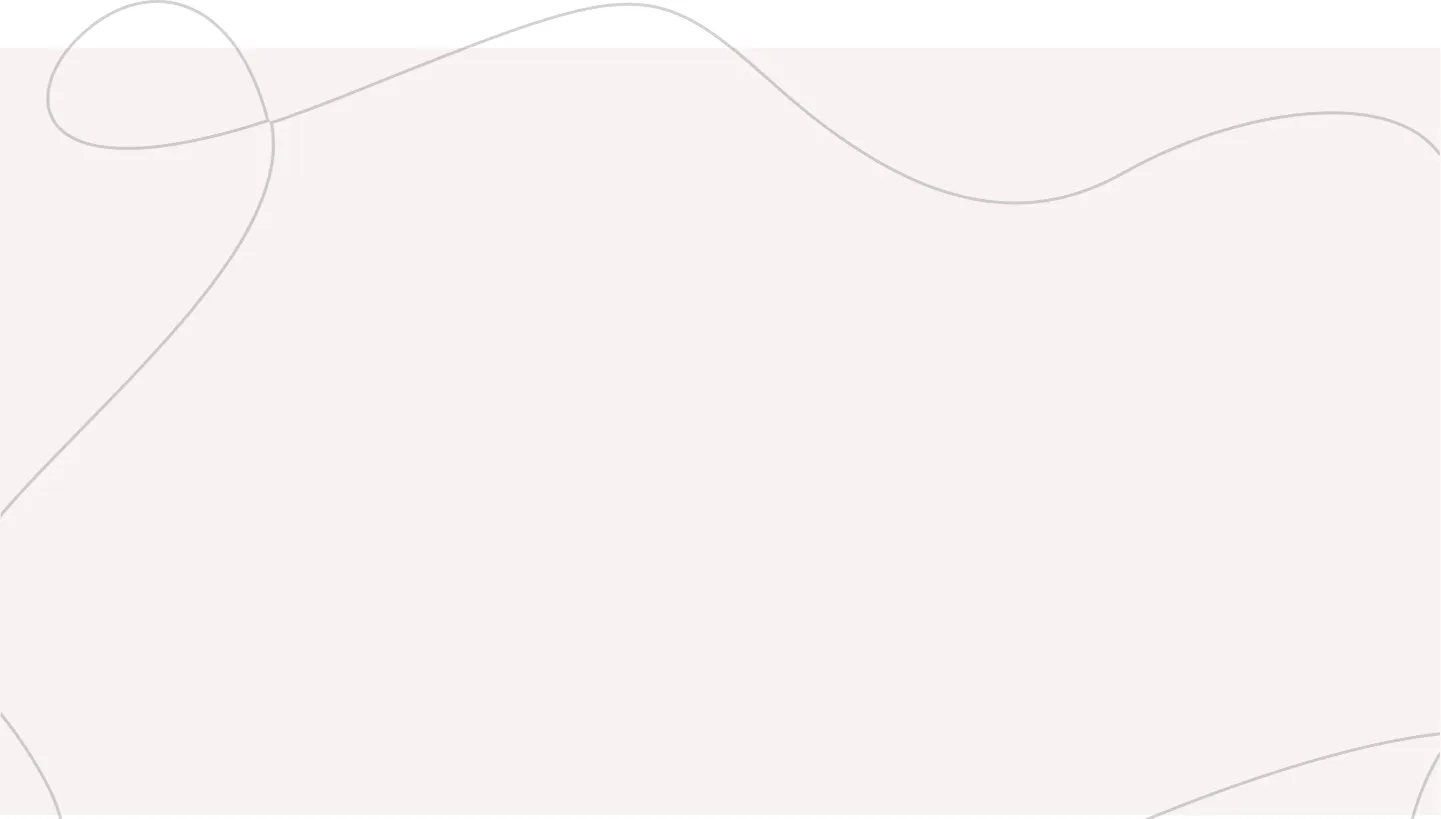
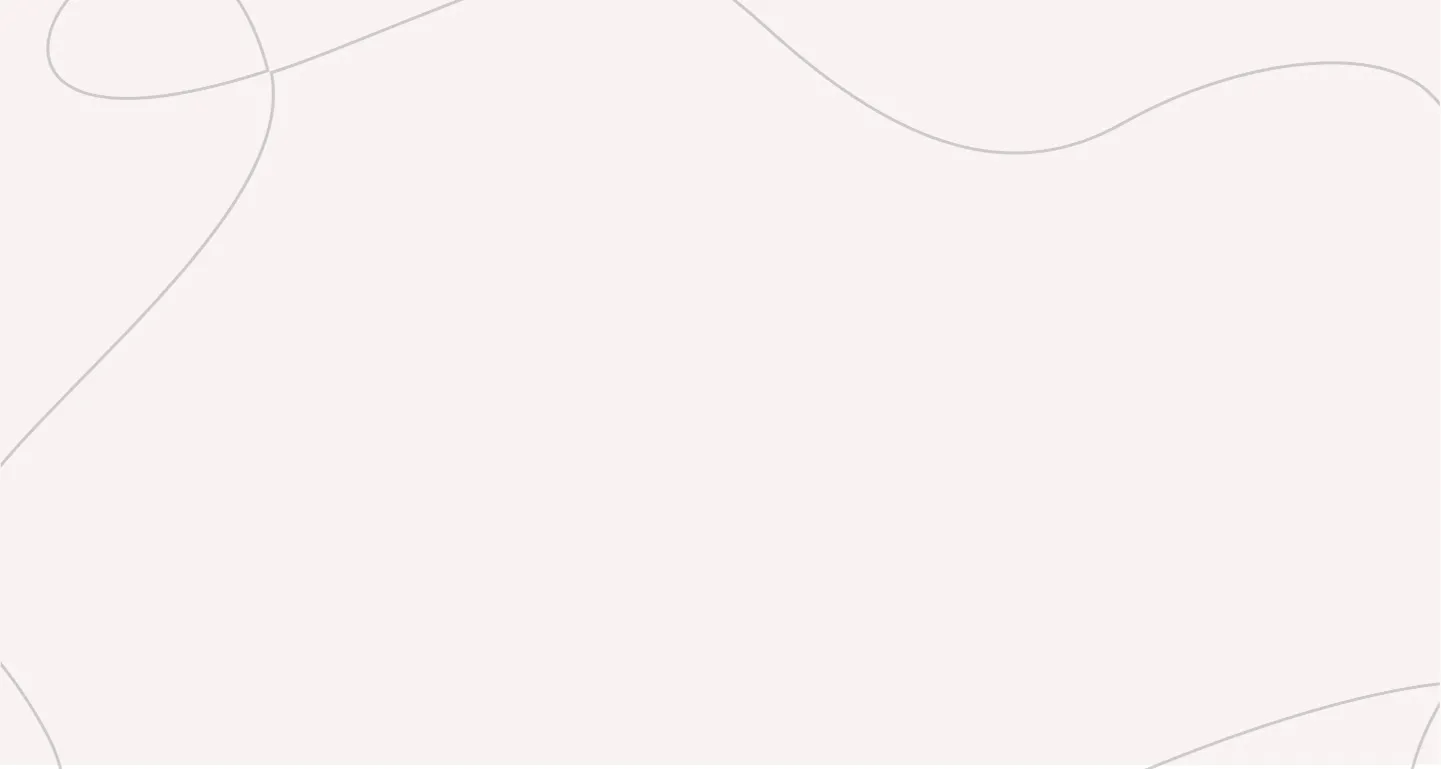
Add files via upload

diff --git a/css/index.min.css b/css/index.min.css
@@ -1,1 +1,1 @@
-@import url(https://fonts.googleapis.com/css?family=Poiret+One:regular&display=swap);@import url(https://fonts.googleapis.com/css?family=Playfair+Display:700&display=swap);@import url(https://fonts.googleapis.com/css?family=Gabriela:regular&display=swap);@import url(https://fonts.googleapis.com/css?family=Inter:regular&display=swap);*{border:0;margin:0;padding:0}*,:after,:before{box-sizing:border-box}:after,:before{display:inline-block}body,html{height:100%}body{line-height:1;scrollbar-gutter:stable;-ms-text-size-adjust:100%;-moz-text-size-adjust:100%;-webkit-text-size-adjust:100%;-webkit-font-smoothing:antialiased;-moz-osx-font-smoothing:grayscale}button,input,textarea{background-color:transparent;color:inherit;font-family:inherit;font-size:inherit;line-height:inherit}input,textarea{width:100%}label{display:inline-block}button,option,select{cursor:pointer}a{color:inherit;display:inline-block;text-decoration:none}ul li{list-style:none}img{height:auto;max-width:100%;vertical-align:middle}h1,h2,h3,h4,h5,h6{font-size:inherit;font-weight:inherit}@font-face{font-display:swap;font-family:gabriola;font-style:normal;font-weight:400;src:url(../assets/fonts/gabriola-Font-Download.woff2) format("woff2")}body{color:#181818;font-family:Poiret One;font-size:1.25rem;min-width:20rem}[data-fls-scrolllock] body{overflow:hidden;overscroll-behavior:none;touch-action:none}.wrapper{display:flex;flex-direction:column;min-height:100%;overflow:clip}.wrapper>main{flex:1 1 auto}.wrapper>*{min-width:0}[class*=__container]{margin:0 auto;max-width:91.875rem;padding-left:.9375rem;padding-right:.9375rem}.subtitle,.title{font-family:Playfair Display;font-size:2.5345625rem;line-height:120%;text-align:center;text-transform:uppercase}.subtitle{color:#010101;margin-bottom:3.75rem;opacity:.2196}.yellow-link{background-color:#000;border-radius:1.5625rem;color:#f4c797;display:inline-block;font-family:Poiret One;font-size:1.5625rem;letter-spacing:.0265rem;line-height:100%;padding:.625rem 1.25rem}.spollers{display:grid;gap:.9375rem}.spollers__item{font-size:1.25rem}.spollers__title{cursor:default;list-style:none;position:relative;width:100%}.spollers__title::-webkit-details-marker,.spollers__title::marker{display:none}.--spoller-init .spollers__title{cursor:pointer}.--spoller-active .faq-arrow{rotate:180deg}.spollers__body{margin-bottom:4.375rem;padding-left:1.875rem;padding-right:1.875rem;text-align:center}.main{padding-bottom:14.375rem;padding-top:12.5rem;position:relative}.main-bg{background-image:url(../img/bg.webp);background-position:50%;background-repeat:no-repeat;background-size:cover;bottom:0;height:100%;left:0;position:absolute;right:0;top:0;width:100%;z-index:-1}.main-link{margin-top:7.5rem}.main-block{align-items:center;display:flex;justify-content:space-between}.main-subtitle{color:#000;margin-bottom:7.875rem;max-width:23.25rem;text-transform:uppercase}.main-subtitle,.main-title{font-size:2.6041875rem;line-height:120%}.main-title{color:#3a3a3a;font-family:Playfair Display;max-width:42.8125rem}.main-title span{font-size:3.6458125rem;text-transform:uppercase}.main-right{align-items:end;display:flex;gap:1.875rem;transform:translate(-12.5rem,-12.5rem)}.main-pic{background-image:url(../img/woman.webp);background-position:50%;background-repeat:no-repeat;background-size:cover;height:22.5rem;position:relative;width:22.5rem;z-index:-1}.main-text{font-size:1.8229375rem;line-height:120%;max-width:16.5625rem;position:relative;text-align:right}.main-text:before{background-image:url(../img/circle.svg);background-position:50%;background-repeat:no-repeat;background-size:cover;content:"";height:8.125rem;left:-1.25rem;position:absolute;top:-1.25rem;width:8.125rem;z-index:-1}.main-text.mobile{display:none}.who{background-image:url(../img/bg2.webp);background-position:50%;background-repeat:no-repeat;background-size:cover;bottom:0;height:100%;left:0;padding-bottom:4.25rem;padding-top:4.25rem;right:0;top:0;width:100%}.who-link{margin-bottom:1.875rem;margin-top:4rem}.who-box{display:flex;flex-wrap:wrap;gap:2.5rem;justify-content:center}.who-item{flex:0 1 30%;padding:1.5rem;text-align:center;fill:#f1f1f1;border-radius:1.875rem;box-shadow:inset 0 .375rem 1.5rem 0 hsla(0,0%,53%,.45);font-family:Gabriola;font-size:1.3020625rem;line-height:100%}.who-item span{display:inline-block;max-width:15.375rem}.take{background-image:url(../img/bg3.webp);background-position:50%;background-repeat:no-repeat;background-size:cover;height:100%;width:100%}.take-box{display:flex;justify-content:space-between}.take-item{flex:0 1 48%}.take-item img{height:100%}.take-title.title{padding-top:3.75rem;text-align:left}.take-subtitle.subtitle{text-align:left}.take-texts{padding-bottom:1.875rem}.take-text{color:#010101;font-family:Poiret One;font-size:1.4323125rem;line-height:120%}.program,.program-block{position:relative}.program-block-bg{background-image:url(../img/bg4.webp);background-position:50%;background-repeat:no-repeat;background-size:cover;bottom:0;height:100%;left:0;position:absolute;right:0;top:0;width:100%;z-index:-1}.program-stars-box{position:relative}.program-title{padding-top:4.625rem}.program-stars{position:absolute;right:30%;top:5rem;z-index:-1}.program-box{align-items:center;display:flex;gap:1.125rem;justify-content:center;margin-bottom:.625rem}.program-numb{color:#000;flex:0 1 0%;font-family:Playfair Display;font-size:4.6875rem;line-height:120%;opacity:.2196;padding-bottom:1.5625rem;text-align:right;text-transform:uppercase}.program-text{border-bottom:.125rem solid #000;border-top:.125rem solid #000;color:#000;flex:0 1 50%;font-family:Poiret One;font-size:1.5625rem;letter-spacing:.0274375rem;line-height:100%;padding-bottom:1.25rem;padding-top:1.25rem}.timing-title{padding-top:3.125rem}.timing-subtitle{margin-bottom:7.5rem}.timing-box{display:flex;gap:3.125rem;justify-content:center}.timing-item{flex:0 1 26%;position:relative}.timing-item-before{background-image:url(../img/circle.svg);background-position:50%;background-repeat:no-repeat;background-size:cover;height:8.125rem;left:-1.875rem;position:absolute;top:-3.125rem;width:8.125rem;z-index:-1}.timing-item-title{font-family:Playfair Display}.timing-item-title,.timing-text{color:#3a3a3a;font-size:1.5625rem;line-height:120%;text-transform:uppercase}.timing-text{font-family:Poiret One;margin-bottom:1.875rem}.end-text{color:#3a3a3a;font-family:Gabriola;font-size:1.8229375rem;line-height:120%;margin:0 auto;max-width:68.75rem;padding-bottom:5rem;padding-top:5rem;text-align:center}.author{position:relative}.author-bg{background-image:url(../img/bg5.webp);background-position:50%;background-repeat:no-repeat;background-size:cover;bottom:0;height:100%;left:0;position:absolute;right:0;top:0;width:100%;z-index:-1}.author-block{display:flex;gap:3.125rem;justify-content:center}.author-img{flex:0 1 33.333%;padding-top:9.375rem;text-align:center}.author-cont{flex:0 1 30%;padding-top:4rem}.author-text{font-family:Playfair Display;margin-bottom:1.875rem}.author-list-item,.author-text{color:#010101;font-size:1.4323125rem;line-height:120%}.price-link{margin-top:4.0625rem;text-align:center}.price-block{padding-top:4.375rem;position:relative}.price-block-bg{background-image:url(../img/bg6.webp);background-position:50%;background-repeat:no-repeat;background-size:cover;bottom:0;height:100%;left:0;position:absolute;right:0;top:0;width:100%;z-index:-1}.price-subtitle{margin-bottom:5.625rem}.price-box{display:flex;gap:4.375rem;justify-content:center;padding-left:1.875rem;padding-right:1.875rem}.price-item{flex:0 1 30%}.price-item-title{font-family:Playfair Display}.price-item-sub,.price-item-title{color:#000;font-size:1.3020625rem;letter-spacing:.0406875rem;line-height:120%}.price-item-sub{margin-bottom:1.125rem}.price-list{margin-bottom:1.4375rem}.price-list-item{color:#575757;font-family:Gabriola;font-size:1.3020625rem;line-height:120%}.price-cost{border-bottom:.1875rem solid #000;border-top:.1875rem solid #000;display:flex;gap:1.375rem;justify-content:space-between;margin-bottom:1.5625rem;padding-bottom:.9375rem;padding-top:.9375rem}.price-cost-title{color:#000;font-family:Playfair Display;font-size:1.4323125rem;line-height:100%;text-transform:uppercase}.price-cost-text{color:#000;font-size:1.5625rem;letter-spacing:.0549375rem;line-height:100%}.price-bold{color:#010101;font-family:Gabriola;font-size:1.3020625rem;line-height:120%;text-align:justify}.faq{margin-top:9.375rem}.faq-subtitle{margin-bottom:3.75rem}.faq-list{align-items:center;display:flex;gap:1.125rem;justify-content:center;padding-bottom:1.625rem;padding-left:1.875rem;padding-right:1.875rem}.faq-list:last-child{padding-bottom:4.375rem}.faq-arrow{flex:0 1 1%;text-align:right;transition:transform .5s ease}.faq-link{border-bottom:.1875rem solid #000;border-top:.1875rem solid #000;color:#000;flex:0 1 34.25rem;font-family:Poiret One;font-size:1.5625rem;letter-spacing:.0473125rem;line-height:120%;padding-bottom:.9375rem;padding-top:.9375rem}.footer{position:relative}.footer-bg{background-image:url(../img/bg-footer.webp);background-position:50%;background-repeat:no-repeat;background-size:cover;bottom:0;height:100%;left:0;position:absolute;right:0;top:0;width:100%;z-index:-1}.footer-box{display:flex;justify-content:center;padding:4.6875rem 1.875rem}.footer-item{flex:0 1 30%}.footer-social-box{align-items:center;display:flex;gap:1.875rem;margin-bottom:1.25rem}.footer-social-box:last-child{margin-bottom:0}.footer-icon{height:1.875rem;width:1.875rem}.footer-link{color:#010101;font-size:1.111625rem}.footer-item-text,.footer-link{font-family:Poiret One;line-height:120%}.footer-item-text{color:#000;font-size:1.171875rem;margin-bottom:1.25rem}.footer-item-text:last-child{margin-bottom:0}@media (max-width:75em){.take-box{flex-wrap:wrap}.take-item{flex:1 1 100%}.take-item img{height:auto;width:100%}.take-subtitle.subtitle,.take-title.title{text-align:center}.take-text{padding-left:1.875rem;padding-right:1.875rem}.program-stars{height:1.875rem;width:1.875rem}}@media (max-width:68.75em){.price-box{flex-wrap:wrap}.price-item{flex:1 1 100%}.footer-box{flex-wrap:wrap;gap:3.125rem}.footer-item{flex:1 1 100%}.footer-item._mob{display:none}.footer-social-box{justify-content:center}}@media (max-width:63.8125rem){.main{padding-bottom:3.4375rem;padding-top:1.625rem}.main-bg{background-image:url(../img/bg-mob.webp)}.main-link{margin-top:1.875rem;text-align:center}.main-block{flex-wrap:wrap;justify-content:center}.main-left{text-align:center}.main-subtitle{display:none}.main-title span{font-size:2.875rem}.main-title{font-size:2.25rem;max-width:none;padding-left:1.875rem;padding-right:1.875rem;text-align:center}.main-right{margin-bottom:3.125rem;order:-1;transform:translate(0)}.main-text{display:none}}@media (max-width:63.8125em){.main-text.mobile{display:block;margin-top:1.875rem;max-width:none}}@media (max-width:56.25em) and (max-width:31.25em){.program-text{flex:1 1 100%}}@media (max-width:56.25em){.subtitle,.title{font-size:1.3125rem}.who-link{margin-bottom:3.125rem;text-align:center}.who-item{flex:0 1 47%}.program-box{margin-bottom:1.875rem}.program-numb{font-size:1.75rem}.program-text{flex:0 1 80%;font-size:1.3125rem}.timing-subtitle{margin-bottom:3rem}.timing-box{flex-wrap:wrap}.timing-item{flex:1 1 100%;text-align:center}.timing-item-title,.timing-text{font-size:1.3125rem}.end-text{font-size:1.4375rem}.author-block{flex-wrap:wrap}.author-img{padding-top:3.125rem}.author-cont,.author-img{flex:1 1 100%;padding-left:1.875rem;padding-right:1.875rem}.author-cont{padding-top:2.5rem}.author-list-item,.author-text,.faq-link,.price-cost-text,.price-cost-title{font-size:1.3125rem}.faq-link{flex:1 1 80%}}@media (max-width:43.75em){.who-item{flex:1 1 100%;font-size:1.125rem}}@media (max-width:31.25em){.take-text{font-size:1.125rem}.faq-arrow{flex:0 1 3%}}@media (max-width:30rem){.main-title,.main-title span{font-size:1.3125rem}}@media (max-width:30em){.main-text{font-size:1.3125rem}}@media (max-width:22.5625em){.main-pic{height:19.375rem;width:19.375rem}}
+@import url(https://fonts.googleapis.com/css?family=Poiret+One:regular&display=swap);@import url(https://fonts.googleapis.com/css?family=Playfair+Display:700&display=swap);@import url(https://fonts.googleapis.com/css?family=Gabriela:regular&display=swap);@import url(https://fonts.googleapis.com/css?family=Inter:regular&display=swap);*{border:0;margin:0;padding:0}*,:after,:before{box-sizing:border-box}:after,:before{display:inline-block}body,html{height:100%}body{line-height:1;scrollbar-gutter:stable;-ms-text-size-adjust:100%;-moz-text-size-adjust:100%;-webkit-text-size-adjust:100%;-webkit-font-smoothing:antialiased;-moz-osx-font-smoothing:grayscale}button,input,textarea{background-color:transparent;color:inherit;font-family:inherit;font-size:inherit;line-height:inherit}input,textarea{width:100%}label{display:inline-block}button,option,select{cursor:pointer}a{color:inherit;display:inline-block;text-decoration:none}ul li{list-style:none}img{height:auto;max-width:100%;vertical-align:middle}h1,h2,h3,h4,h5,h6{font-size:inherit;font-weight:inherit}@font-face{font-display:swap;font-family:gabriola;font-style:normal;font-weight:400;src:url(../assets/fonts/gabriola-Font-Download.woff2) format("woff2")}body{color:#181818;font-family:Poiret One;font-size:1.25rem;min-width:20rem}[data-fls-scrolllock] body{overflow:hidden;overscroll-behavior:none;touch-action:none}.wrapper{display:flex;flex-direction:column;min-height:100%;overflow:clip}.wrapper>main{flex:1 1 auto}.wrapper>*{min-width:0}[class*=__container]{margin:0 auto;max-width:91.875rem;padding-left:.9375rem;padding-right:.9375rem}.subtitle,.title{font-family:Playfair Display;font-size:2.5345625rem;line-height:120%;text-align:center;text-transform:uppercase}.subtitle{color:#010101;margin-bottom:3.75rem;opacity:.2196}.yellow-link{background-color:#000;border-radius:1.5625rem;color:#f4c797;display:inline-block;font-family:Poiret One;font-size:1.5625rem;letter-spacing:.0265rem;line-height:100%;padding:.625rem 1.25rem}.spollers{display:grid;gap:.9375rem}.spollers__item{font-size:1.25rem}.spollers__title{cursor:default;list-style:none;position:relative;width:100%}.spollers__title::-webkit-details-marker,.spollers__title::marker{display:none}.--spoller-init .spollers__title{cursor:pointer}.--spoller-active .faq-arrow{rotate:180deg}.spollers__body{margin-bottom:4.375rem;padding-left:1.875rem;padding-right:1.875rem;text-align:center}.main{padding-bottom:14.375rem;padding-top:12.5rem;position:relative}.main-bg{background-image:url(../img/bg.webp);background-position:50%;background-repeat:no-repeat;background-size:cover;bottom:0;height:100%;left:0;position:absolute;right:0;top:0;width:100%;z-index:-1}.main-link{margin-top:7.5rem}.main-block{align-items:center;display:flex;justify-content:space-between}.main-subtitle{color:#000;margin-bottom:7.875rem;max-width:23.25rem;text-transform:uppercase}.main-subtitle,.main-title{font-size:2.6041875rem;line-height:120%}.main-title{color:#3a3a3a;font-family:Playfair Display;max-width:42.8125rem}.main-title span{font-size:3.6458125rem;text-transform:uppercase}.main-right{align-items:end;display:flex;gap:1.875rem;transform:translate(-12.5rem,-12.5rem)}.main-pic{background-image:url(../img/woman.webp);background-position:50%;background-repeat:no-repeat;background-size:cover;height:22.5rem;position:relative;width:22.5rem;z-index:-1}.main-text{font-size:1.8229375rem;line-height:120%;max-width:16.5625rem;position:relative;text-align:right}.main-text:before{background-image:url(../img/circle.svg);background-position:50%;background-repeat:no-repeat;background-size:cover;content:"";height:8.125rem;left:-1.25rem;position:absolute;top:-1.25rem;width:8.125rem;z-index:-1}.main-text.mobile{display:none}.who{background-image:url(../img/bg2.webp);background-position:50%;background-repeat:no-repeat;background-size:cover;bottom:0;height:100%;left:0;padding-bottom:4.25rem;padding-top:4.25rem;right:0;top:0;width:100%}.who-link{margin-bottom:1.875rem;margin-top:4rem}.who-box{display:flex;flex-wrap:wrap;gap:2.5rem;justify-content:center}.who-item{flex:0 1 30%;padding:1.5rem;text-align:center;fill:#f1f1f1;border-radius:1.875rem;box-shadow:inset 0 .375rem 1.5rem 0 hsla(0,0%,53%,.45);font-family:Gabriola;font-size:1.625rem;line-height:100%}.who-item span{display:inline-block;max-width:15.375rem}.take{background-image:url(../img/bg3.webp);background-position:50%;background-repeat:no-repeat;background-size:cover;height:100%;width:100%}.take-box{display:flex;justify-content:space-between}.take-item{flex:0 1 48%}.take-item img{height:100%}.take-title.title{padding-top:3.75rem;text-align:left}.take-subtitle.subtitle{text-align:left}.take-texts{padding-bottom:1.875rem}.take-text{color:#010101;font-family:Poiret One;font-size:1.4323125rem;line-height:120%}.program,.program-block{position:relative}.program-block-bg{background-image:url(../img/bg4.webp);background-position:50%;background-repeat:no-repeat;background-size:cover;bottom:0;height:110%;left:0;position:absolute;right:0;top:-3.125rem;width:100%;z-index:-1}.program-stars-box{position:relative}.program-title{padding-top:4.625rem}.program-stars{position:absolute;right:30%;top:5rem;z-index:-1}.program-box{align-items:center;display:flex;gap:1.125rem;justify-content:center;margin-bottom:.625rem}.program-numb{color:#000;flex:0 1 0%;font-family:Playfair Display;font-size:4.6875rem;line-height:120%;opacity:.2196;padding-bottom:1.5625rem;text-align:right;text-transform:uppercase}.program-text{border-bottom:.125rem solid #000;border-top:.125rem solid #000;color:#000;flex:0 1 50%;font-family:Poiret One;font-size:1.5625rem;letter-spacing:.0274375rem;line-height:100%;padding-bottom:1.25rem;padding-top:1.25rem}.timing-title{padding-top:3.125rem}.timing-subtitle{margin-bottom:7.5rem}.timing-box{display:flex;gap:3.125rem;justify-content:center;padding-left:10%}.timing-item{flex:0 1 26%;position:relative}.timing-item-before{background-image:url(../img/circle.svg);background-position:50%;background-repeat:no-repeat;background-size:cover;height:8.125rem;left:-1.875rem;position:absolute;top:-3.125rem;width:8.125rem;z-index:-1}.timing-item-title{color:#3a3a3a;font-family:Playfair Display;font-size:1.5625rem;line-height:120%;text-transform:uppercase}.timing-item-title._circle{position:relative}.timing-item-title._circle:before{background-image:url(../img/circle.svg);background-position:50%;background-repeat:no-repeat;background-size:cover;content:"";height:8.125rem;left:-1.875rem;position:absolute;top:-3.125rem;width:8.125rem;z-index:-1}.timing-text{font-family:Poiret One;font-size:1.5625rem;margin-bottom:1.875rem;text-transform:uppercase}.end-text,.timing-text{color:#3a3a3a;line-height:120%}.end-text{font-family:Gabriola;font-size:1.8229375rem;margin:0 auto;max-width:68.75rem;padding-bottom:5rem;padding-top:5rem;text-align:center}.author{position:relative}.author-bg{background-image:url(../img/bg5.webp);background-position:50%;background-repeat:no-repeat;background-size:cover;bottom:0;height:100%;left:0;position:absolute;right:0;top:0;width:100%;z-index:-1}.author-block{display:flex;gap:3.125rem;justify-content:center;margin-bottom:-9.375rem}.author-img{flex:0 1 33.333%;padding-top:9.375rem;text-align:center}.author-cont{flex:0 1 40%;padding-top:4rem}.author-text{font-family:Playfair Display;margin-bottom:1.875rem}.author-list-item,.author-text{color:#010101;font-size:1.4323125rem;line-height:120%}.price-link{margin-top:4.0625rem;text-align:center}.price-block{padding-top:4.375rem;position:relative}.price-block-bg{background-image:url(../img/bg6.webp);background-position:50%;background-repeat:no-repeat;background-size:cover;bottom:0;height:100%;left:0;position:absolute;right:0;top:0;width:100%;z-index:-1}.price-title{padding-top:9.375rem}.price-subtitle{margin-bottom:5.625rem}.price-box{display:flex;gap:4.375rem;justify-content:center;padding-left:1.875rem;padding-right:1.875rem}.price-item{flex:0 1 30%}.price-item-title{font-family:Playfair Display}.price-item-sub,.price-item-title{color:#000;font-size:1.3020625rem;letter-spacing:.0406875rem;line-height:120%}.price-item-sub{margin-bottom:1.125rem}.price-list{margin-bottom:1.4375rem}.price-list-item{color:#575757;font-family:Gabriola;font-size:1.3020625rem;line-height:120%}.price-cost{border-bottom:.1875rem solid #000;border-top:.1875rem solid #000;display:flex;gap:1.375rem;justify-content:space-between;margin-bottom:1.5625rem;padding-bottom:.9375rem;padding-top:.9375rem}.price-cost-title{color:#000;font-family:Playfair Display;font-size:1.4323125rem;line-height:100%;text-transform:uppercase}.price-cost-text{color:#000;font-size:1.5625rem;letter-spacing:.0549375rem;line-height:100%}.price-bold{color:#010101;font-family:Gabriola;font-size:1.3020625rem;line-height:120%;text-align:justify}.faq{margin-top:9.375rem}.faq-subtitle{margin-bottom:3.75rem}.faq-list{align-items:center;display:flex;gap:1.125rem;justify-content:center;padding-bottom:1.625rem;padding-left:1.875rem;padding-right:1.875rem}.faq-list:last-child{padding-bottom:4.375rem}.faq-arrow{flex:0 1 1%;text-align:right;transition:transform .5s ease}.faq-link{border-bottom:.1875rem solid #000;border-top:.1875rem solid #000;color:#000;flex:0 1 34.125rem;font-family:Poiret One;font-size:1.5625rem;letter-spacing:.0473125rem;line-height:120%;padding-bottom:.9375rem;padding-top:.9375rem}.footer{position:relative}.footer-bg{background-image:url(../img/bg-footer.webp);background-position:50%;background-repeat:no-repeat;background-size:cover;bottom:0;height:100%;left:0;position:absolute;right:0;top:0;width:100%;z-index:-1}.footer-box{display:flex;justify-content:center;padding:4.6875rem 1.875rem}.footer-item{flex:0 1 30%}.footer-social-box{align-items:center;display:flex;gap:1.875rem;margin-bottom:1.25rem}.footer-social-box:last-child{margin-bottom:0}.footer-icon{height:2.5rem;width:2.5rem}.footer-link{color:#010101;font-size:1.111625rem}.footer-item-text,.footer-link{font-family:Poiret One;line-height:120%}.footer-item-text{color:#000;font-size:1.171875rem;margin-bottom:1.25rem}.footer-item-text:last-child{margin-bottom:0}@media (max-width:81.25rem){.main-title span{font-size:2.375rem}}@media (max-width:81.25em){.main-title{max-width:none}}@media (max-width:76.875em){.author-block{margin-bottom:-7.5rem}}@media (max-width:75em){.main-subtitle{font-size:1.625rem}.take-box{flex-wrap:wrap}.take-item{flex:1 1 100%}.take-item img{height:auto;width:100%}.take-subtitle.subtitle,.take-title.title{text-align:center}.take-text{padding-left:1.875rem;padding-right:1.875rem}.program-stars{height:2.5rem;width:2.5rem}}@media (max-width:71.875em){.main-right{transform:translate(-5rem,-14.375rem)}}@media (max-width:68.75em){.price-box{flex-wrap:wrap}.price-item{flex:1 1 100%;max-width:26.875rem}.footer-box{flex-wrap:wrap;gap:3.125rem}.footer-item{flex:1 1 100%}.footer-item._mob{display:none}.footer-social-box{padding-left:25%}}@media (max-width:63.8125rem){.main{padding-bottom:3.4375rem;padding-top:1.625rem}.main-bg{background-image:url(../img/bg-mob.webp)}.main-link{margin-top:1.875rem;text-align:center}.main-block{flex-wrap:wrap;justify-content:center}.main-left{text-align:center}.main-subtitle{display:none}.main-title{font-size:2.25rem;max-width:none;padding-left:1.875rem;padding-right:1.875rem;text-align:center}.main-right{margin-bottom:3.125rem;order:-1;transform:translate(0)}.main-text{display:none}}@media (max-width:63.8125em){.main-text.mobile{display:block;margin-top:1.875rem;max-width:none}}@media (max-width:62.5em){.program-stars{right:15%}}@media (max-width:56.25em) and (max-width:31.25em){.program-text{flex:1 1 100%}}@media (max-width:56.25em){.subtitle,.title{font-size:1.3125rem}.main-title span{font-size:1.75rem}.main-title{font-size:1.5rem}.who-link{margin-bottom:3.125rem;text-align:center}.who-item{flex:0 1 47%}.program-box{margin-bottom:1.875rem}.program-numb{font-size:1.75rem}.program-text{flex:0 1 80%;font-size:1.3125rem}.timing-subtitle{margin-bottom:6.125rem}.timing-box{flex-wrap:wrap;padding-left:0}.timing-item{flex:1 1 100%;padding-left:20%}.timing-item-title,.timing-text{font-size:1.3125rem}.end-text{font-size:1.4375rem}.author-block{flex-wrap:wrap;margin-bottom:0}.author-img{padding-top:3.125rem}.author-cont,.author-img{flex:1 1 100%;padding-left:1.875rem;padding-right:1.875rem}.author-cont{padding-top:2.5rem}.author-list-item,.author-text{font-size:1.3125rem}.price-title{padding-top:0}.faq-link,.price-cost-text,.price-cost-title{font-size:1.3125rem}.faq-link{flex:1 1 80%}}@media (max-width:46.25em){.program-stars{height:1.875rem;width:1.875rem}}@media (max-width:43.75em){.who-item{flex:1 1 100%}}@media (max-width:34.375em){.footer-social-box{padding-left:0}}@media (max-width:31.25em){.take-text{font-size:1.125rem}.timing-item{padding-left:1.875rem}.faq-arrow{flex:0 1 3%}}@media (max-width:30rem){.main-title,.main-title span{font-size:1.3125rem}}@media (max-width:30em){.main-text{font-size:1.3125rem}}@media (max-width:26.25em){.program-stars{right:10%}}@media (max-width:22.5625em){.main-pic{height:19.375rem;width:19.375rem}}

diff --git a/css/dev/index.css b/css/dev/index.css
@@ -294,7 +294,7 @@ body {
   box-shadow: 0rem 0.375rem 1.5rem 0rem rgba(136, 136, 136, 0.45) inset;
   border-radius: 1.875rem;
   font-family: Gabriola;
-  font-size: 1.3020625rem;
+  font-size: 1.625rem;
   line-height: 100%; /* 100% */
 }
 .who-item span {
@@ -356,9 +356,9 @@ body {
   background-repeat: no-repeat;
   background-size: cover;
   background-position: center center;
-  height: 100%;
+  height: 110%;
   width: 100%;
-  top: 0;
+  top: -3.125rem;
   bottom: 0;
   right: 0;
   left: 0;
@@ -424,6 +424,7 @@ body {
   display: flex;
   gap: 3.125rem;
   justify-content: center;
+  padding-left: 10%;
 }
 
 .timing-item {
@@ -450,6 +451,22 @@ body {
   font-size: 1.5625rem;
   line-height: 120%; /* 120% */
   text-transform: uppercase;
+}
+.timing-item-title._circle {
+  position: relative;
+}
+.timing-item-title._circle::before {
+  content: "";
+  position: absolute;
+  background-image: url(../img/circle.svg);
+  background-repeat: no-repeat;
+  background-size: cover;
+  background-position: center center;
+  height: 8.125rem;
+  width: 8.125rem;
+  top: -3.125rem;
+  left: -1.875rem;
+  z-index: -1;
 }
 
 .timing-text {
@@ -496,6 +513,7 @@ body {
   display: flex;
   justify-content: center;
   gap: 3.125rem;
+  margin-bottom: -9.375rem;
 }
 
 .author-img {
@@ -506,7 +524,7 @@ body {
 
 .author-cont {
   padding-top: 4rem;
-  flex: 0 1 30%;
+  flex: 0 1 40%;
 }
 
 .author-text {
@@ -546,6 +564,10 @@ body {
   bottom: 0;
   right: 0;
   left: 0;
+}
+
+.price-title {
+  padding-top: 9.375rem;
 }
 
 .price-subtitle {
@@ -653,7 +675,7 @@ body {
 }
 
 .faq-link {
-  flex: 0 1 34.25rem;
+  flex: 0 1 34.125rem;
   color: #000;
   font-family: "Poiret One";
   font-size: 1.5625rem;
@@ -708,8 +730,8 @@ body {
 }
 
 .footer-icon {
-  width: 1.875rem;
-  height: 1.875rem;
+  width: 2.5rem;
+  height: 2.5rem;
 }
 
 .footer-link {
@@ -729,7 +751,25 @@ body {
 .footer-item-text:last-child {
   margin-bottom: 0;
 }
+@media (max-width: 81.25rem){
+  .main-title span {
+    font-size: 2.375rem;
+  }
+}
+@media (max-width: 81.25em){
+  .main-title {
+    max-width: none;
+  }
+}
+@media (max-width: 76.875em){
+  .author-block {
+    margin-bottom: -7.5rem;
+  }
+}
 @media (max-width: 75em){
+  .main-subtitle {
+    font-size: 1.625rem;
+  }
   .take-box {
     flex-wrap: wrap;
   }
@@ -751,8 +791,13 @@ body {
     padding-right: 1.875rem;
   }
   .program-stars {
-    width: 1.875rem;
-    height: 1.875rem;
+    width: 2.5rem;
+    height: 2.5rem;
+  }
+}
+@media (max-width: 71.875em){
+  .main-right {
+    transform: translate(-5rem, -14.375rem);
   }
 }
 @media (max-width: 68.75em){
@@ -761,6 +806,7 @@ body {
   }
   .price-item {
     flex: 1 1 100%;
+    max-width: 26.875rem;
   }
   .footer-box {
     flex-wrap: wrap;
@@ -773,7 +819,7 @@ body {
     display: none;
   }
   .footer-social-box {
-    justify-content: center;
+    padding-left: 25%;
   }
 }
 @media (max-width: 63.8125rem){
@@ -798,9 +844,6 @@ body {
   .main-subtitle {
     display: none;
   }
-  .main-title span {
-    font-size: 2.875rem;
-  }
   .main-title {
     text-align: center;
     padding-left: 1.875rem;
@@ -824,6 +867,11 @@ body {
     max-width: none;
   }
 }
+@media (max-width: 62.5em){
+  .program-stars {
+    right: 15%;
+  }
+}
 @media (max-width: 56.25em) and (max-width: 31.25em){
   .program-text {
     flex: 1 1 100%;
@@ -835,6 +883,12 @@ body {
   }
   .subtitle {
     font-size: 1.3125rem;
+  }
+  .main-title span {
+    font-size: 1.75rem;
+  }
+  .main-title {
+    font-size: 1.5rem;
   }
   .who-link {
     text-align: center;
@@ -854,14 +908,15 @@ body {
     flex: 0 1 80%;
   }
   .timing-subtitle {
-    margin-bottom: 3rem;
+    margin-bottom: 6.125rem;
   }
   .timing-box {
     flex-wrap: wrap;
+    padding-left: 0rem;
   }
   .timing-item {
     flex: 1 1 100%;
-    text-align: center;
+    padding-left: 20%;
   }
   .timing-item-title {
     font-size: 1.3125rem;
@@ -874,6 +929,7 @@ body {
   }
   .author-block {
     flex-wrap: wrap;
+    margin-bottom: 0;
   }
   .author-img {
     flex: 1 1 100%;
@@ -893,6 +949,9 @@ body {
   .author-list-item {
     font-size: 1.3125rem;
   }
+  .price-title {
+    padding-top: 0;
+  }
   .price-cost-title {
     font-size: 1.3125rem;
   }
@@ -904,15 +963,28 @@ body {
     flex: 1 1 80%;
   }
 }
+@media (max-width: 46.25em){
+  .program-stars {
+    width: 1.875rem;
+    height: 1.875rem;
+  }
+}
 @media (max-width: 43.75em){
   .who-item {
     flex: 1 1 100%;
-    font-size: 1.125rem;
+  }
+}
+@media (max-width: 34.375em){
+  .footer-social-box {
+    padding-left: 0;
   }
 }
 @media (max-width: 31.25em){
   .take-text {
     font-size: 1.125rem;
+  }
+  .timing-item {
+    padding-left: 1.875rem;
   }
   .faq-arrow {
     flex: 0 1 3%;
@@ -929,6 +1001,11 @@ body {
 @media (max-width: 30em){
   .main-text {
     font-size: 1.3125rem;
+  }
+}
+@media (max-width: 26.25em){
+  .program-stars {
+    right: 10%;
   }
 }
 @media (max-width: 22.5625em){

diff --git a/index.html b/index.html
@@ -6,8 +6,8 @@
 		<link rel="preload" href="./assets/fonts/gabriola-Font-Download.woff2" as="font" type="font/woff2" crossorigin="anonymous">
 		<link rel="shortcut icon" href="./assets/img/favicon.ico">
 		<title>Home Page</title>
-		<script type="module" crossorigin="" src="./js/index.min.js?v=1751178806923"></script>
-		<link rel="stylesheet" crossorigin="" href="./css/index.min.css?v=1751178806923">
+		<script type="module" crossorigin="" src="./js/index.min.js?v=1751270742371"></script>
+		<link rel="stylesheet" crossorigin="" href="./css/index.min.css?v=1751270742371">
 	</head>
 	<body>
 		<div class="wrapper">
@@ -197,8 +197,7 @@
 								<p class="timing-subtitle subtitle">Расписание тренинга</p>
 								<div class="timing-box">
 									<div class="timing-item">
-										<div class="timing-item-before"></div>
-										<p class="timing-item-title">Старт:</p>
+										<p class="timing-item-title _circle">Старт:</p>
 										<p class="timing-text">21 августа 2025</p>
 										<p class="timing-item-title">формат:</p>
 										<p class="timing-text">онлайн, 8 встреч по 2 часа</p>
@@ -206,8 +205,7 @@
 										<p class="timing-text">по четвергам с 12:00 до 14:00 (по Стамбулу)</p>
 									</div>
 									<div class="timing-item">
-										<div class="timing-item-before"></div>
-										<p class="timing-item-title">Даты встреч:</p>
+										<p class="timing-item-title _circle">Даты встреч:</p>
 										<p class="timing-text">
 											21 августа
 											<br>
@@ -229,8 +227,12 @@
 								</div>
 							</div>
 							<p class="end-text">
-								Все встречи будут записаны. Доступ к записям и материалам будет
-          предоставлен в тот же день и сохранится до 9 января 2026 года. Вы
+								Все встречи будут записаны.
+								<br>
+								Доступ к записям и материалам будет
+          предоставлен в тот же день и сохранится до 9 января 2026 года.
+								<br>
+								Вы
           сможете пересматривать материалы в удобном для себя ритме,
           возвращаться к практикам и проработке.
 							</p>
